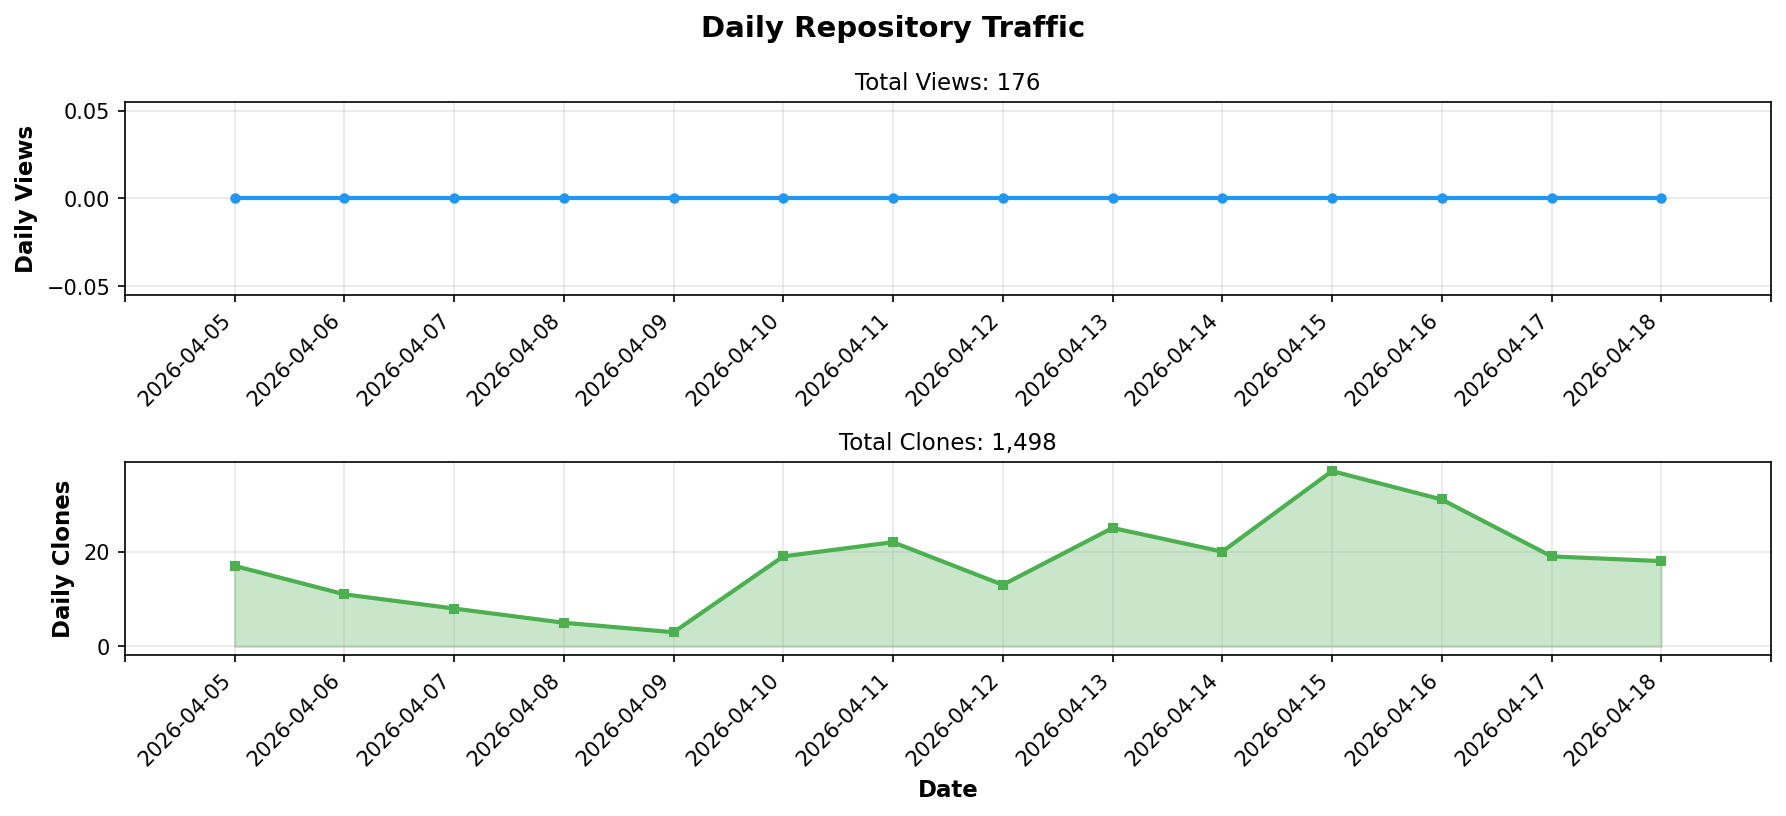
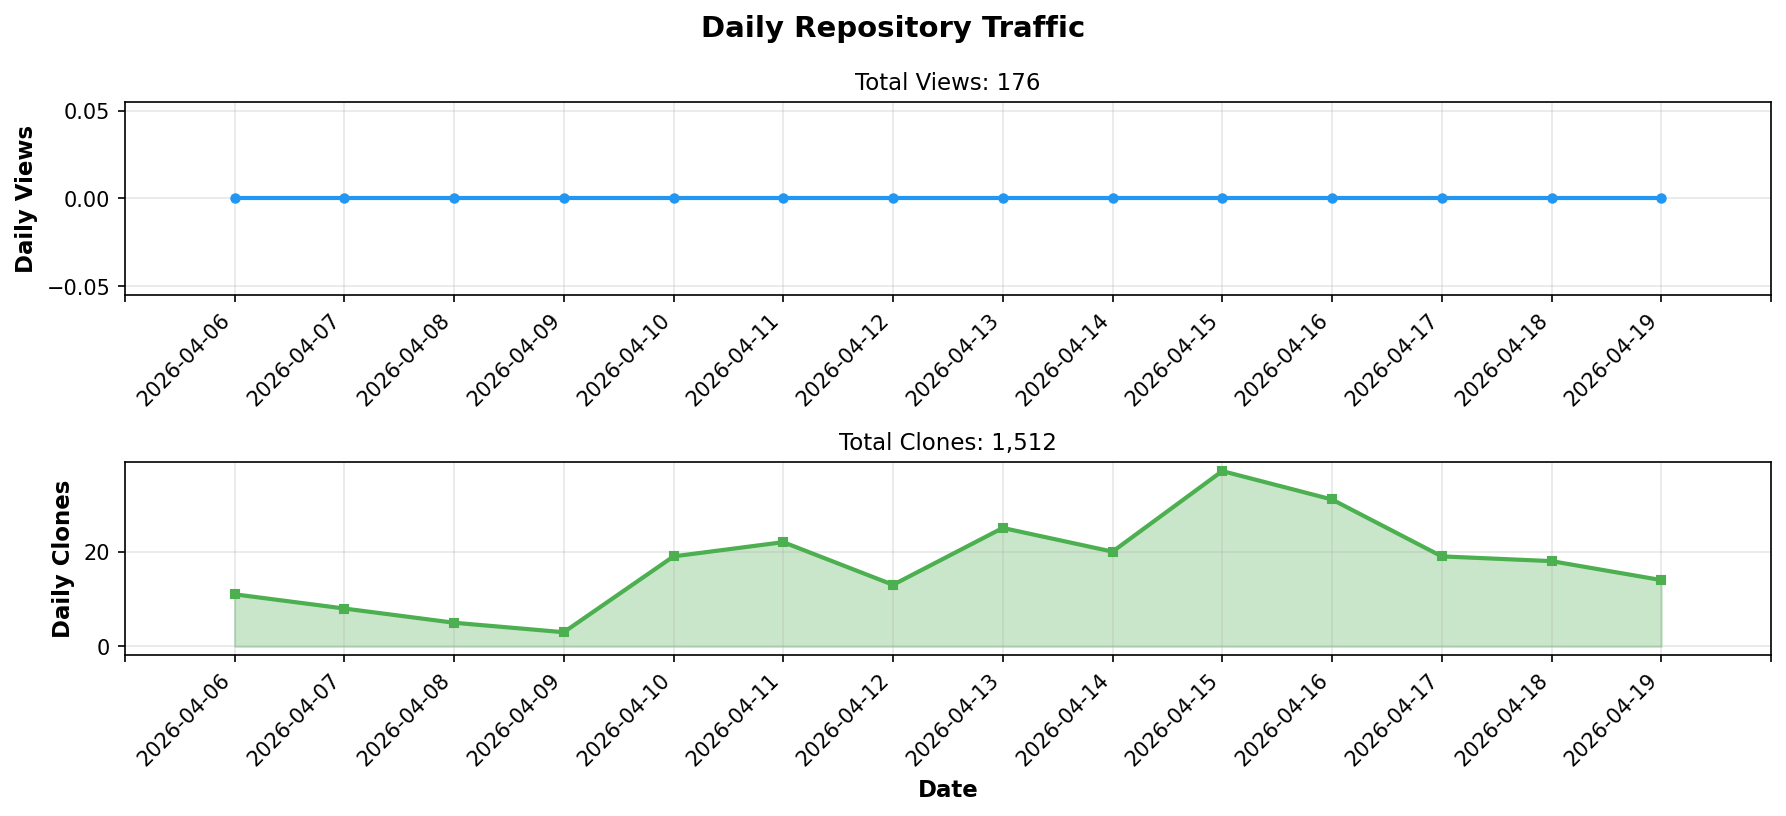
chore: update repository stats [skip ci]

diff --git a/README.md b/README.md
@@ -42,9 +42,9 @@ Baconian is a Rust project.
 | Metric | Count |
 |--------|-------|
 | **Total Views** / 総閲覧数 | **176** |
-| **Total Clones** / 総クローン数 | **1,498** |
+| **Total Clones** / 総クローン数 | **1,512** |
 
-*Last Updated / 最終更新: 2026-04-20 01:35 UTC*
+*Last Updated / 最終更新: 2026-04-21 01:35 UTC*
 
 </div>
 <!-- STATS_END -->
